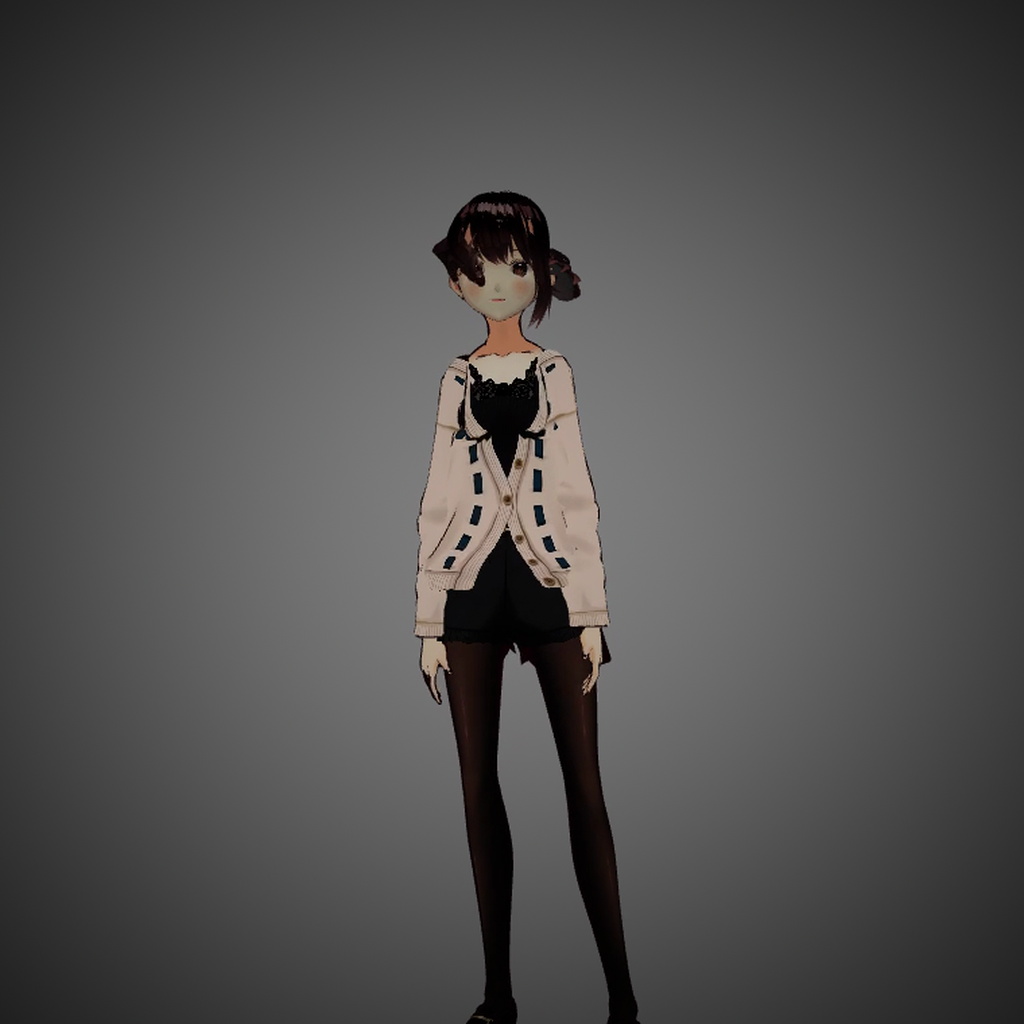
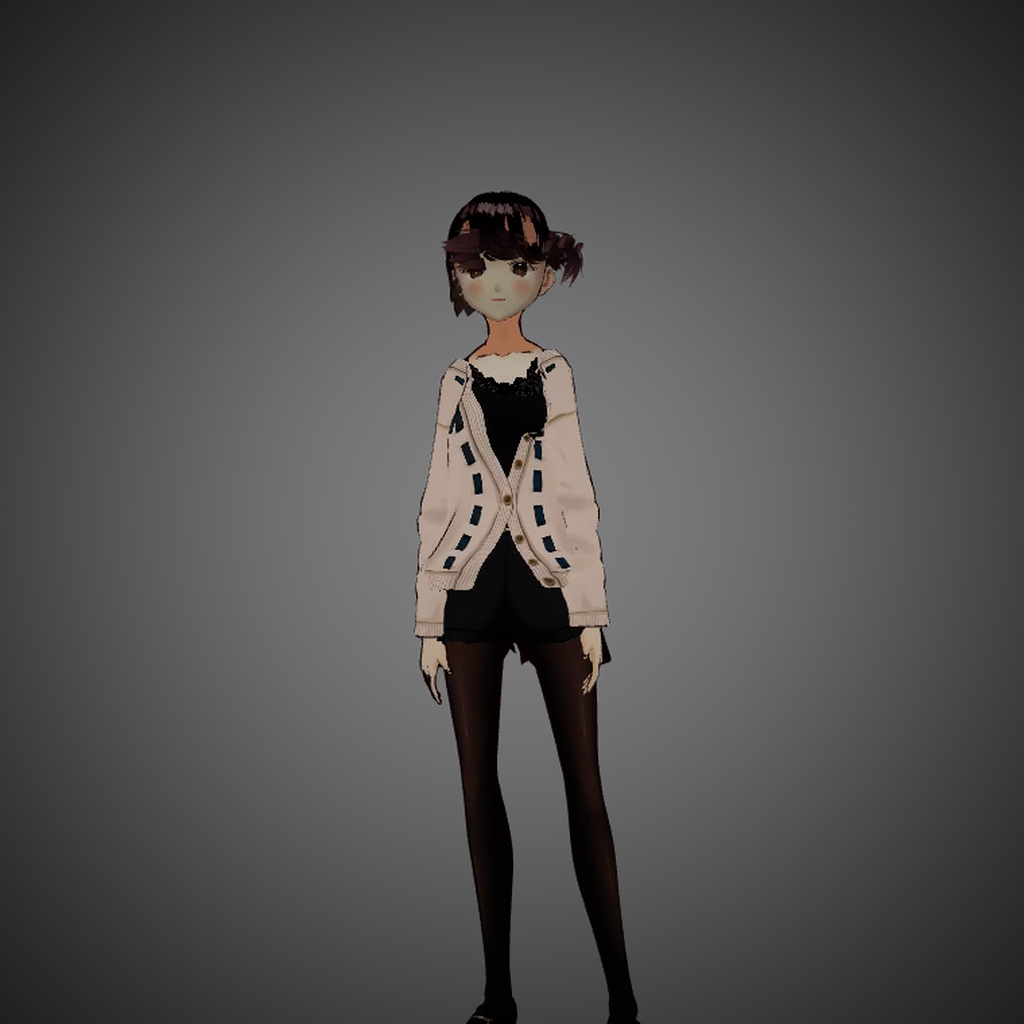
fix(springbone): stop overriding author-specified gravityPower=0
\`VRMExtensionParser.swift:664\` was force-bumping any joint with
\`gravityPower=0\` to 1.0, fighting models that intentionally use 0
plus high \`stiffness\` to hold hair/cloth shape (e.g. AvatarSample_A's
"Hair" springs ship gravityPower=0 stiffness≈0.8 — the hair is meant
to recoil from motion, not droop).

The system-level duplicate of this auto-fix was already removed in
PR #143 (\`SpringBoneComputeSystem.swift:649\` — "Auto-fix for zero
gravityPower removed - it was overriding intentional zero gravity").
The parser-level override survived as the still-active duplicate.
This commit removes it; author intent is now preserved through to
the physics step.

Changed region(s): [[0.4375, 0.3438, 0.5625, 0.4688], [0.4062, 0.2188, 0.5938, 0.3125]]

diff --git a/Sources/VRMMetalKit/Loader/VRMExtensionParser.swift b/Sources/VRMMetalKit/Loader/VRMExtensionParser.swift
@@ -661,9 +661,14 @@ public class VRMExtensionParser {
                         var joint = VRMSpringJoint(node: node)
                         joint.hitRadius = jointDict["hitRadius"] as? Float ?? 0.0
                         joint.stiffness = jointDict["stiffness"] as? Float ?? 1.0
-                        // Apply minimum gravityPower of 1.0 when model specifies 0
-                        let rawGravityPower = jointDict["gravityPower"] as? Float ?? 0.0
-                        joint.gravityPower = rawGravityPower > 0 ? rawGravityPower : 1.0
+                        // Preserve the author's `gravityPower`. A duplicate
+                        // auto-fix used to override 0 to 1.0 here, fighting models
+                        // that intentionally set 0 (e.g. AvatarSample_A's "Hair"
+                        // and "Bust" springs which use `stiffness=0.8` to hold
+                        // shape without gravity). The system-level auto-fix was
+                        // already removed in PR #143; this duplicate is the
+                        // remaining override.
+                        joint.gravityPower = jointDict["gravityPower"] as? Float ?? 0.0
                         joint.dragForce = jointDict["dragForce"] as? Float ?? 0.4
 
                         if let gravityDir = jointDict["gravityDir"] as? [Float], gravityDir.count == 3 {